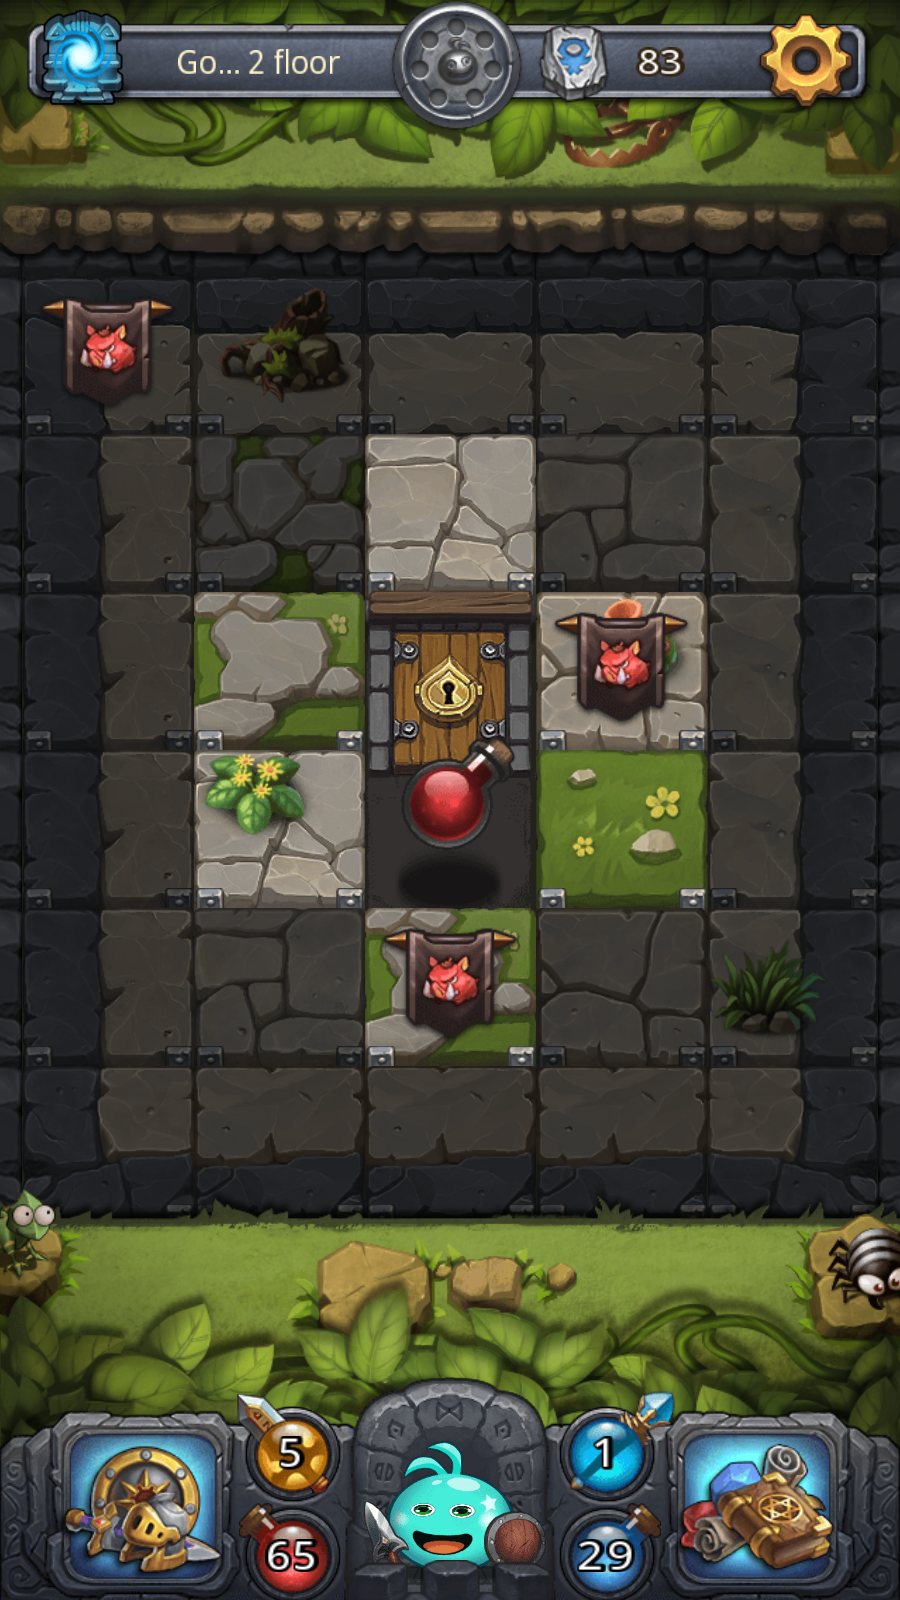
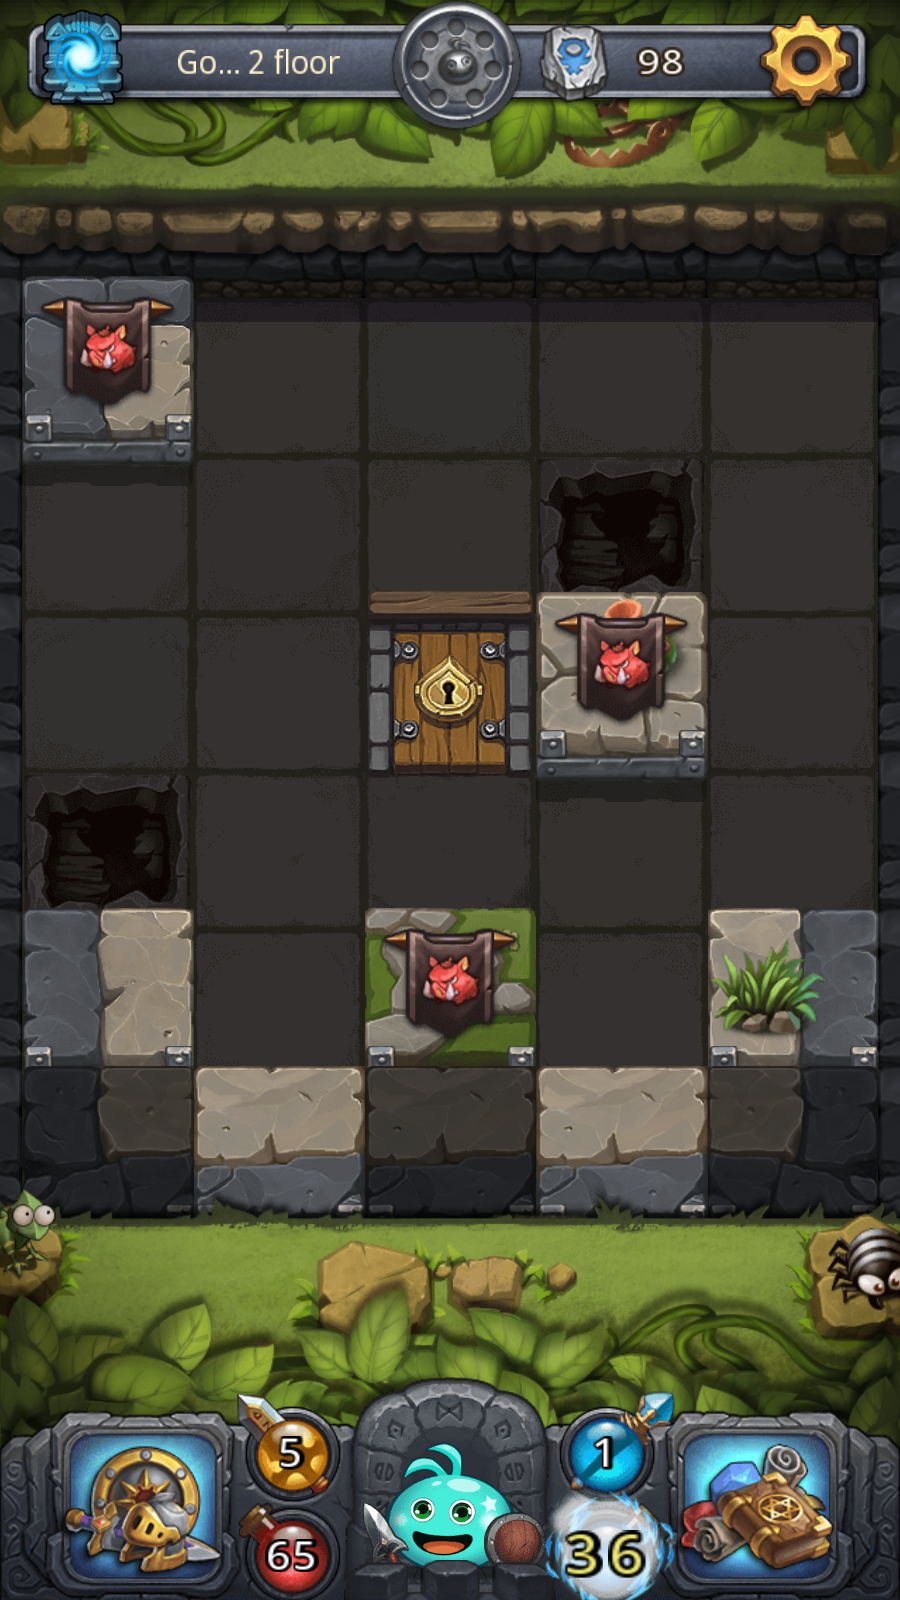
screenshot click

diff --git a/mistydroid.client/src/App.tsx b/mistydroid.client/src/App.tsx
@@ -3,7 +3,6 @@ import './App.css';
 
 
 function App() {
-    //const [screenshot, setScreenshot] = useState<Uint8Array>();
     const [screenshotId, setScreenshotId] = useState<number>();
 
     useEffect(() => {
@@ -13,8 +12,8 @@ function App() {
     const contents = screenshotId === undefined
         ? <p><em>Loading... Please refresh once the ASP.NET backend has started. See <a href="https://aka.ms/jspsintegrationreact">https://aka.ms/jspsintegrationreact</a> for more details.</em></p>
         : (
-        <div>
-                <img src={`api/session/gumballs/screenshot/${screenshotId}`} width="500px" />
+            <div>
+                <img src={`api/session/gumballs/screenshot/${screenshotId}`} width="600px" onMouseDown={screenshotClick} />
                 <button onClick={refreshScreenshot} >refresh</button>
         </div>
         );
@@ -26,15 +25,36 @@ function App() {
         </div>
     );
 
+    function screenshotClick(event: React.MouseEvent<HTMLImageElement, MouseEvent>) {
+        var k = 900 / 600;
+
+        console.log(event);
+
+        gameClick(Math.round(event.nativeEvent.offsetX * k), Math.round(event.nativeEvent.offsetY * k));
+    }
+
     function refreshScreenshot() {
         setScreenshotId((screenshotId ?? 0) + 1);
     }
 
-    //async function populateScreenshot() {
-    //    const response = await fetch('api/session/gumballs/screenshot');
-    //    const screenshot = await response.bytes();
-    //    setScreenshot(screenshot);
-    //}
+    async function gameClick(x: number, y: number) {
+        await fetch('api/session/gumballs/click',
+            {
+                method: "POST",
+                headers: {
+                    "Content-Type": "application/json",
+                },
+                body: JSON.stringify({ point: { x: x, y: y } }),
+            });
+
+        await sleep(700);
+
+        refreshScreenshot();
+    }
+
+    function sleep(ms: number) {
+        return new Promise(resolve => setTimeout(resolve, ms));
+    }
 
 }
 

diff --git a/MistyDroid.Server/Services/AdbSession.cs b/MistyDroid.Server/Services/AdbSession.cs
@@ -1,4 +1,5 @@
 using AdvancedSharpAdbClient;
+using AdvancedSharpAdbClient.DeviceCommands;
 using AdvancedSharpAdbClient.Models;
 using Emgu.CV;
 using Emgu.CV.Structure;
@@ -34,6 +35,19 @@ public class AdbSession
         return await File.ReadAllBytesAsync(screenshotFilename);
 
     }
+
+    public async Task Click(Point p)
+    {
+        await adbClient.ClickAsync(device, new System.Drawing.Point(p.X, p.Y));
+    }
+}
+
+
+public class Point
+{
+    public int X { get; init; }
+    public int Y { get; init; }
+
 }
 
 

diff --git a/MistyDroid.Server/Controllers/SessionController.cs b/MistyDroid.Server/Controllers/SessionController.cs
@@ -17,4 +17,19 @@ public class SessionController(AdbManager adbManager) : ControllerBase
 
         return File(screenshot, "image/png");
     }
+
+    [HttpPost("session/{sessionName}/click")]
+    public async Task<object> Click(string sessionName, [FromBody]ClickInfo clickInfo)
+    {
+        var session = adbManager.GetOrCreateSession(sessionName);
+        await session.Click(clickInfo.Point);
+
+        return new { };
+    }
 }
+
+public class ClickInfo
+{
+    public required Point Point { get; init; }
+}
+
